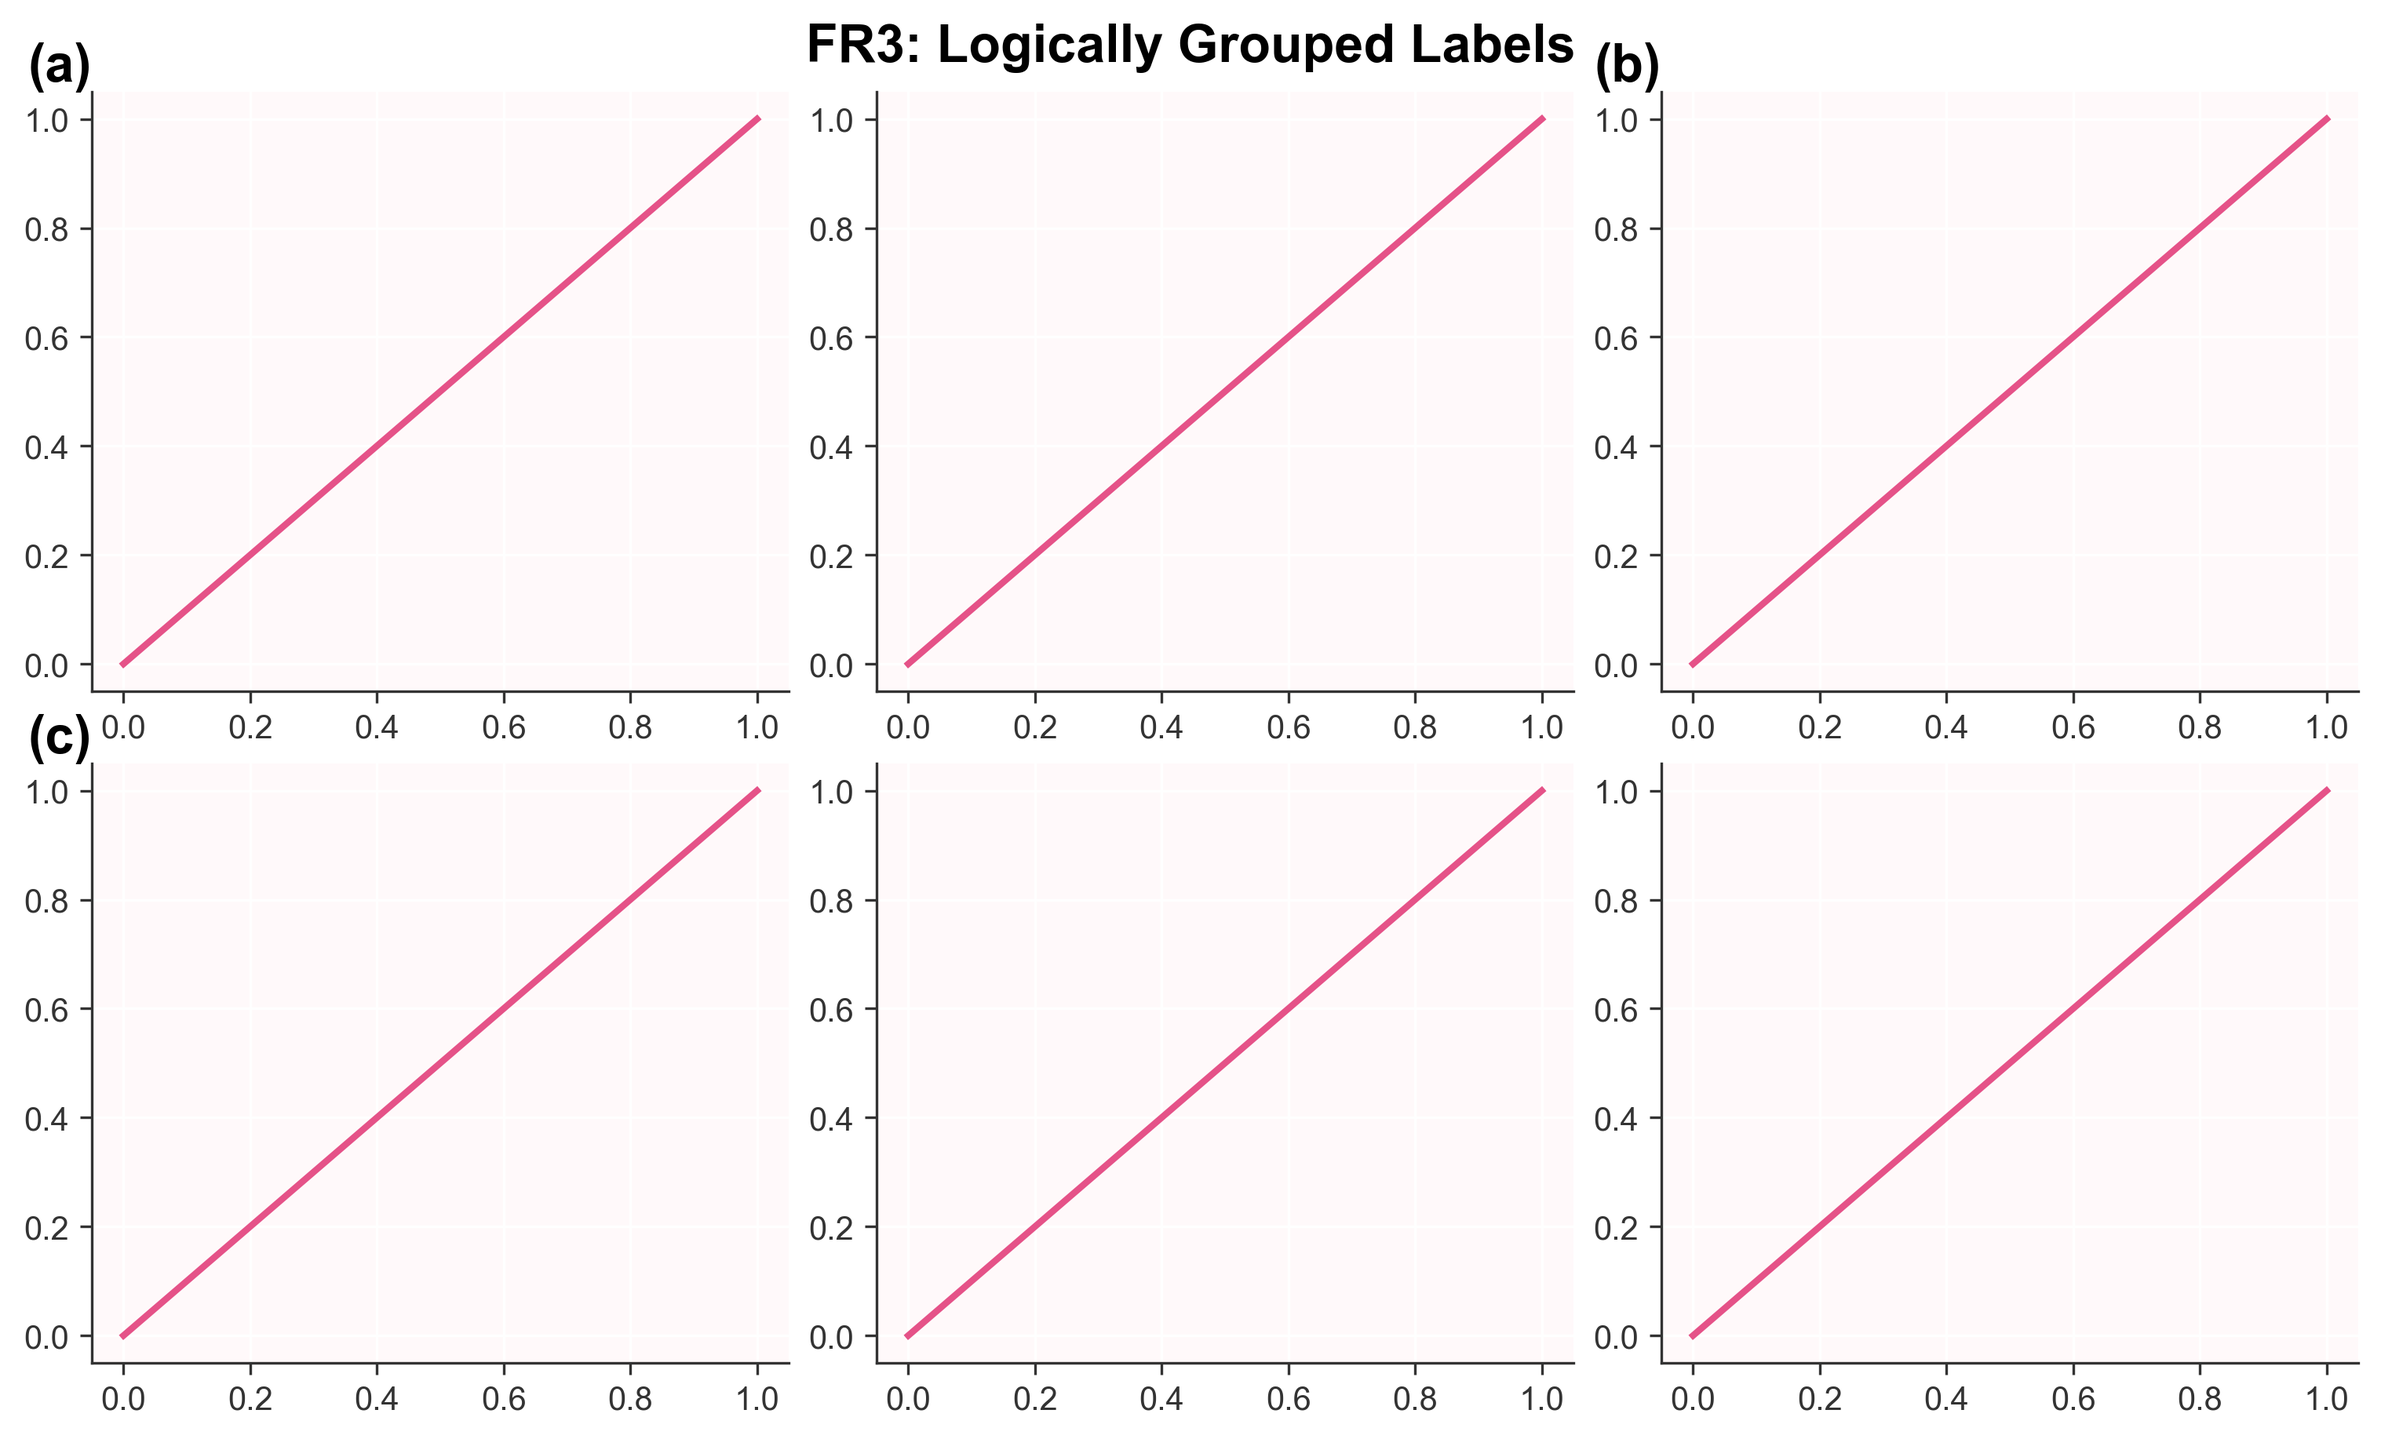
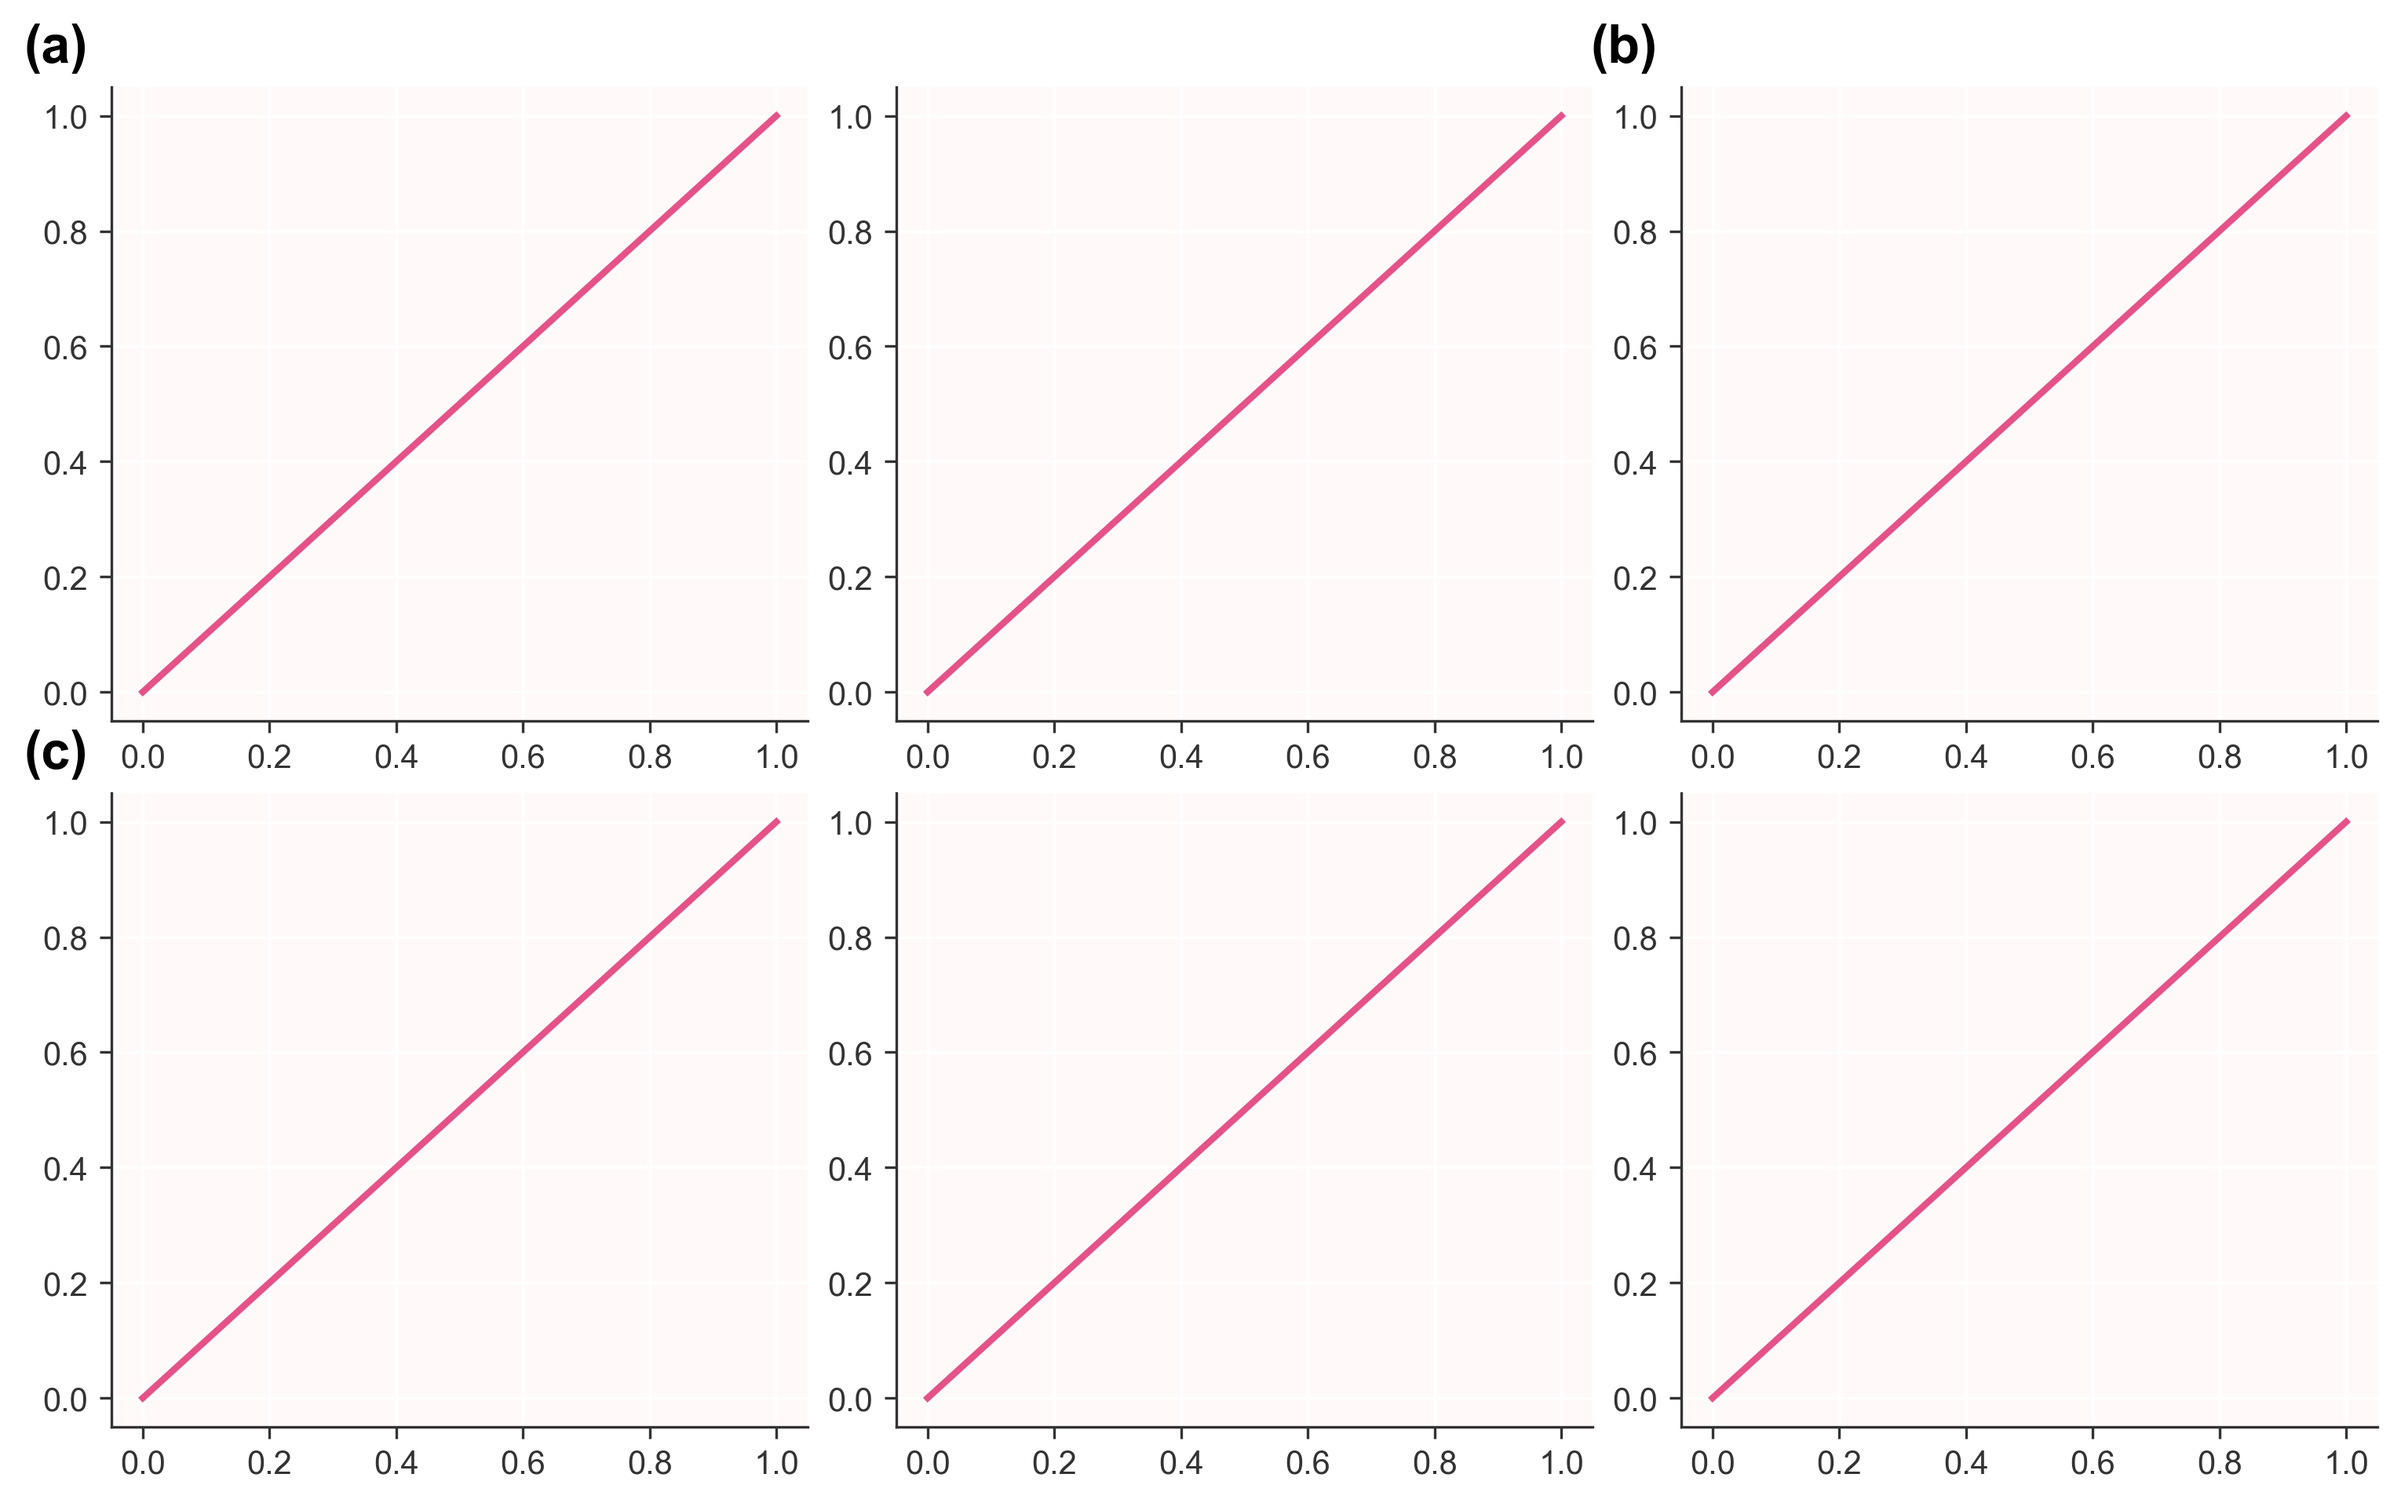
添加自动标号

diff --git a/examples/Labeling/example_2_grouped.py b/examples/Labeling/example_2_grouped.py
@@ -24,7 +24,7 @@ groups = {
 plotter.add_grouped_labels(groups=groups, position='top_left', fontsize=16)
 
 # 5. 添加标题并保存
-plotter.set_suptitle("FR3: Logically Grouped Labels", fontsize=16, weight='bold')
+# plotter.set_suptitle("FR3: Logically Grouped Labels", fontsize=16, weight='bold')
 plotter.save("example_2_grouped.png")
 
 print("Generated example_2_grouped.png")
